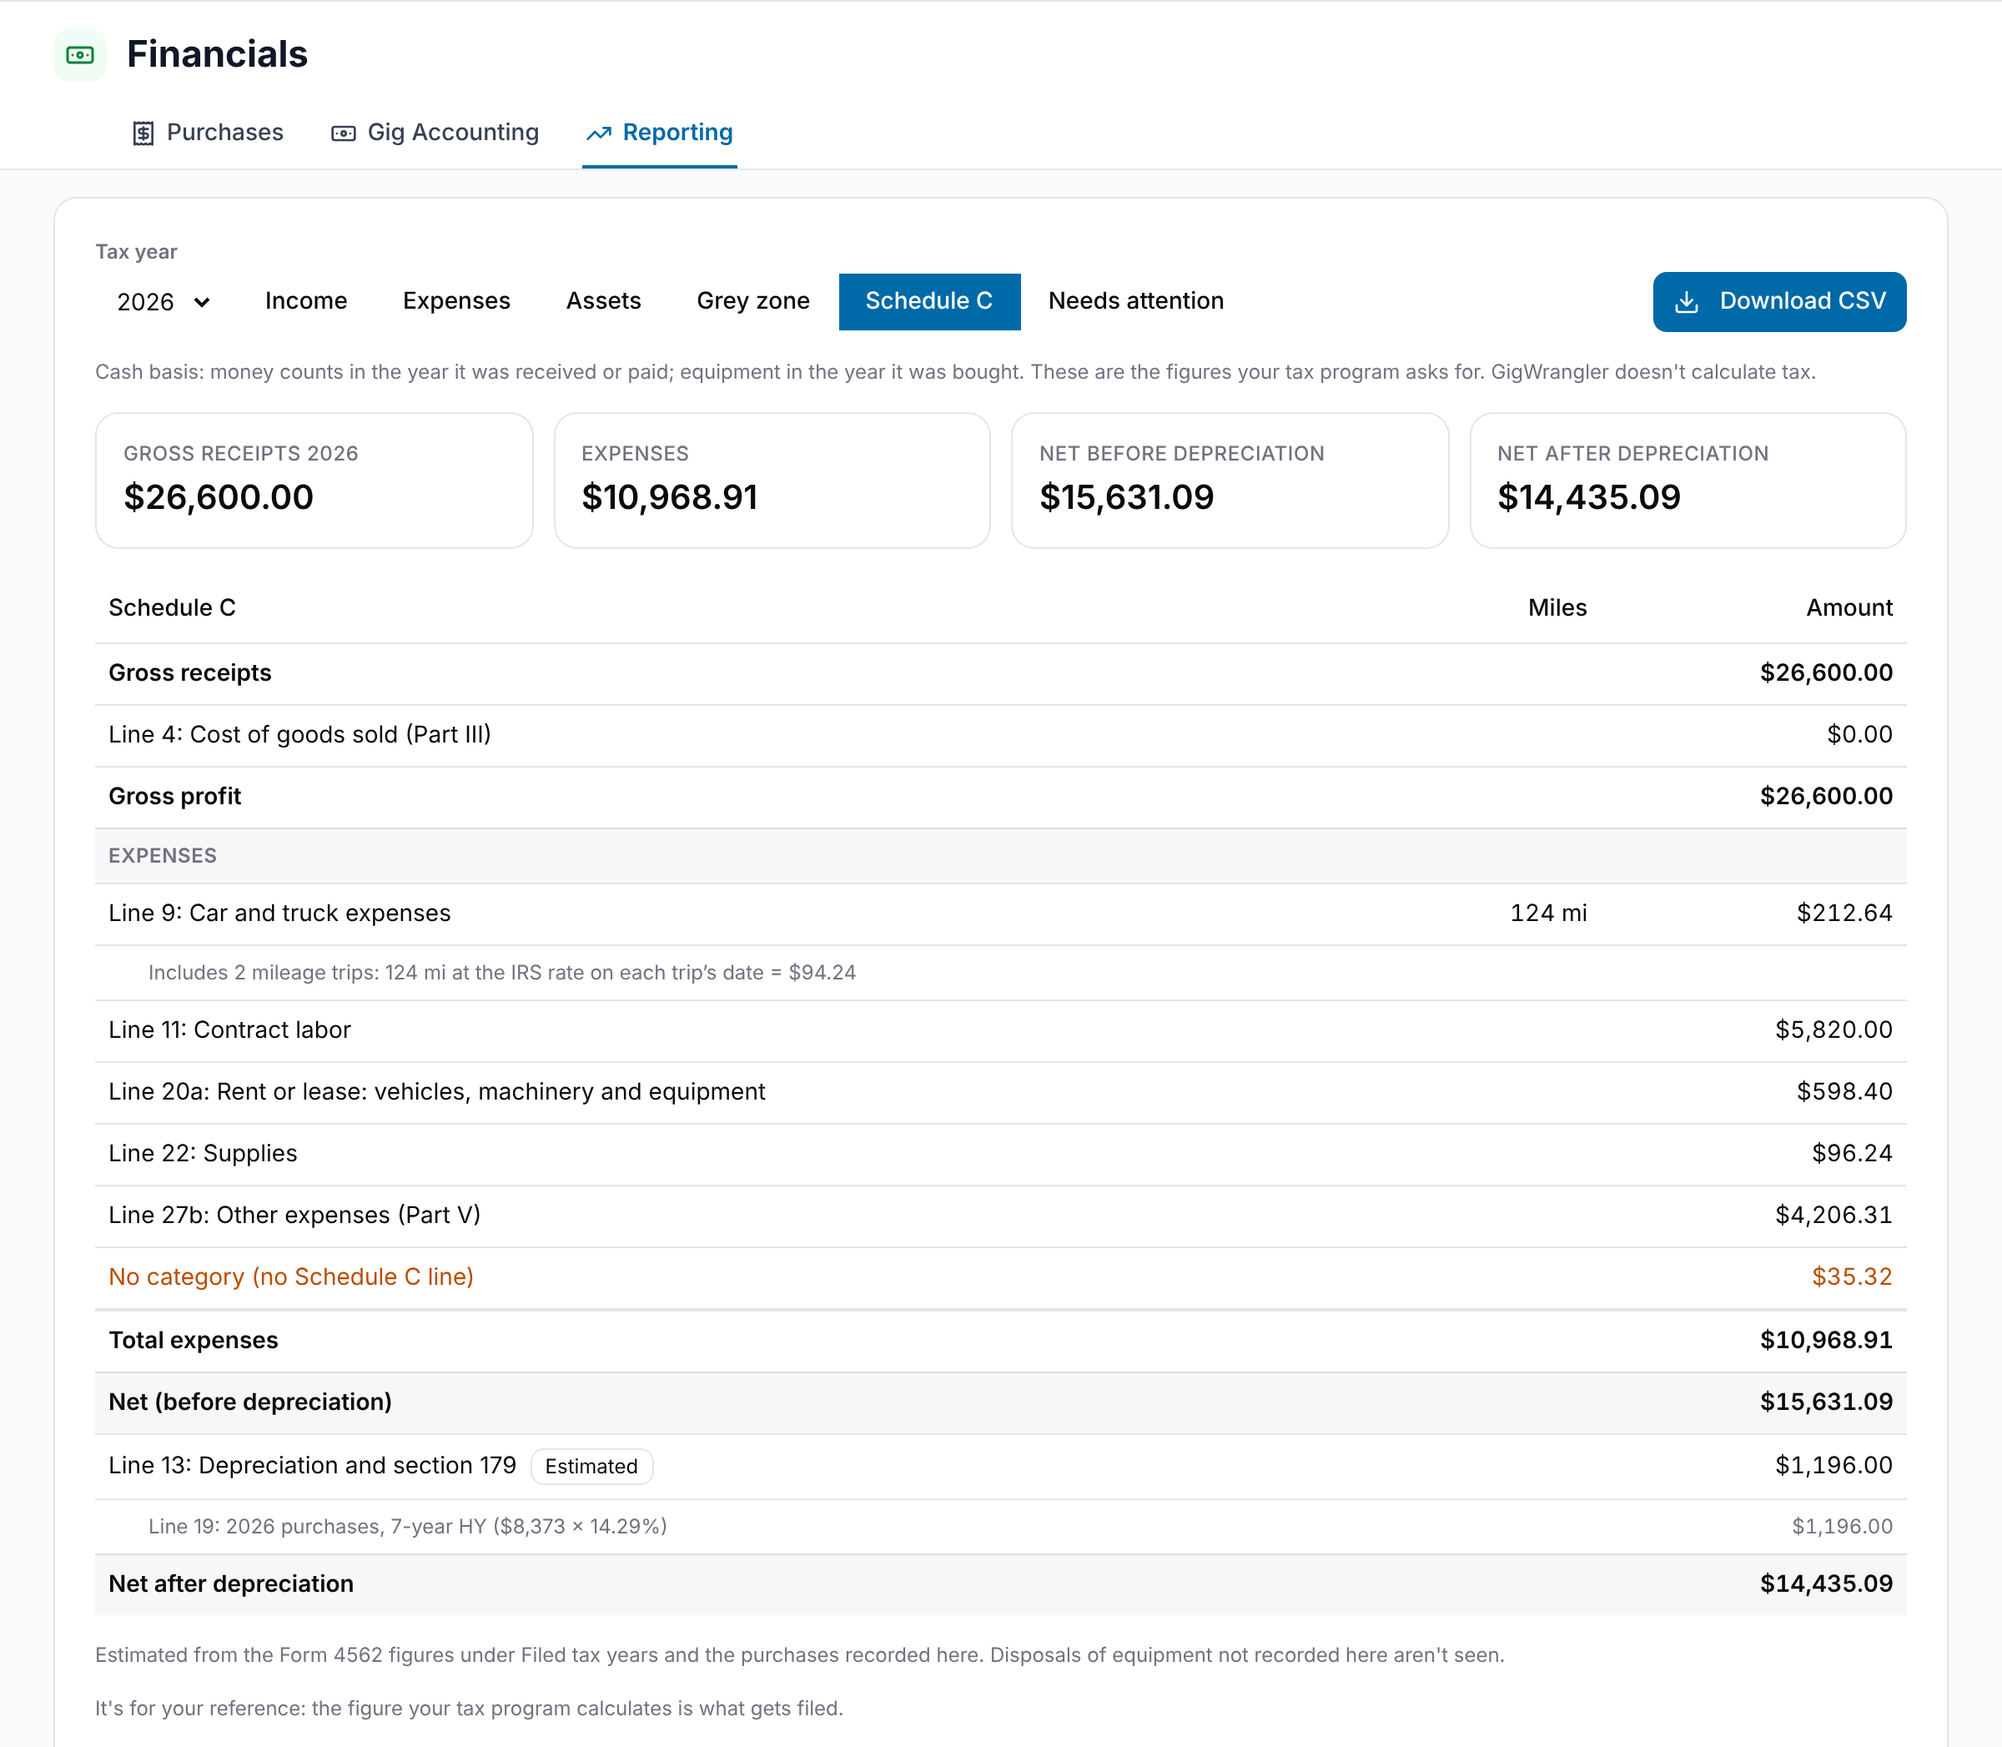
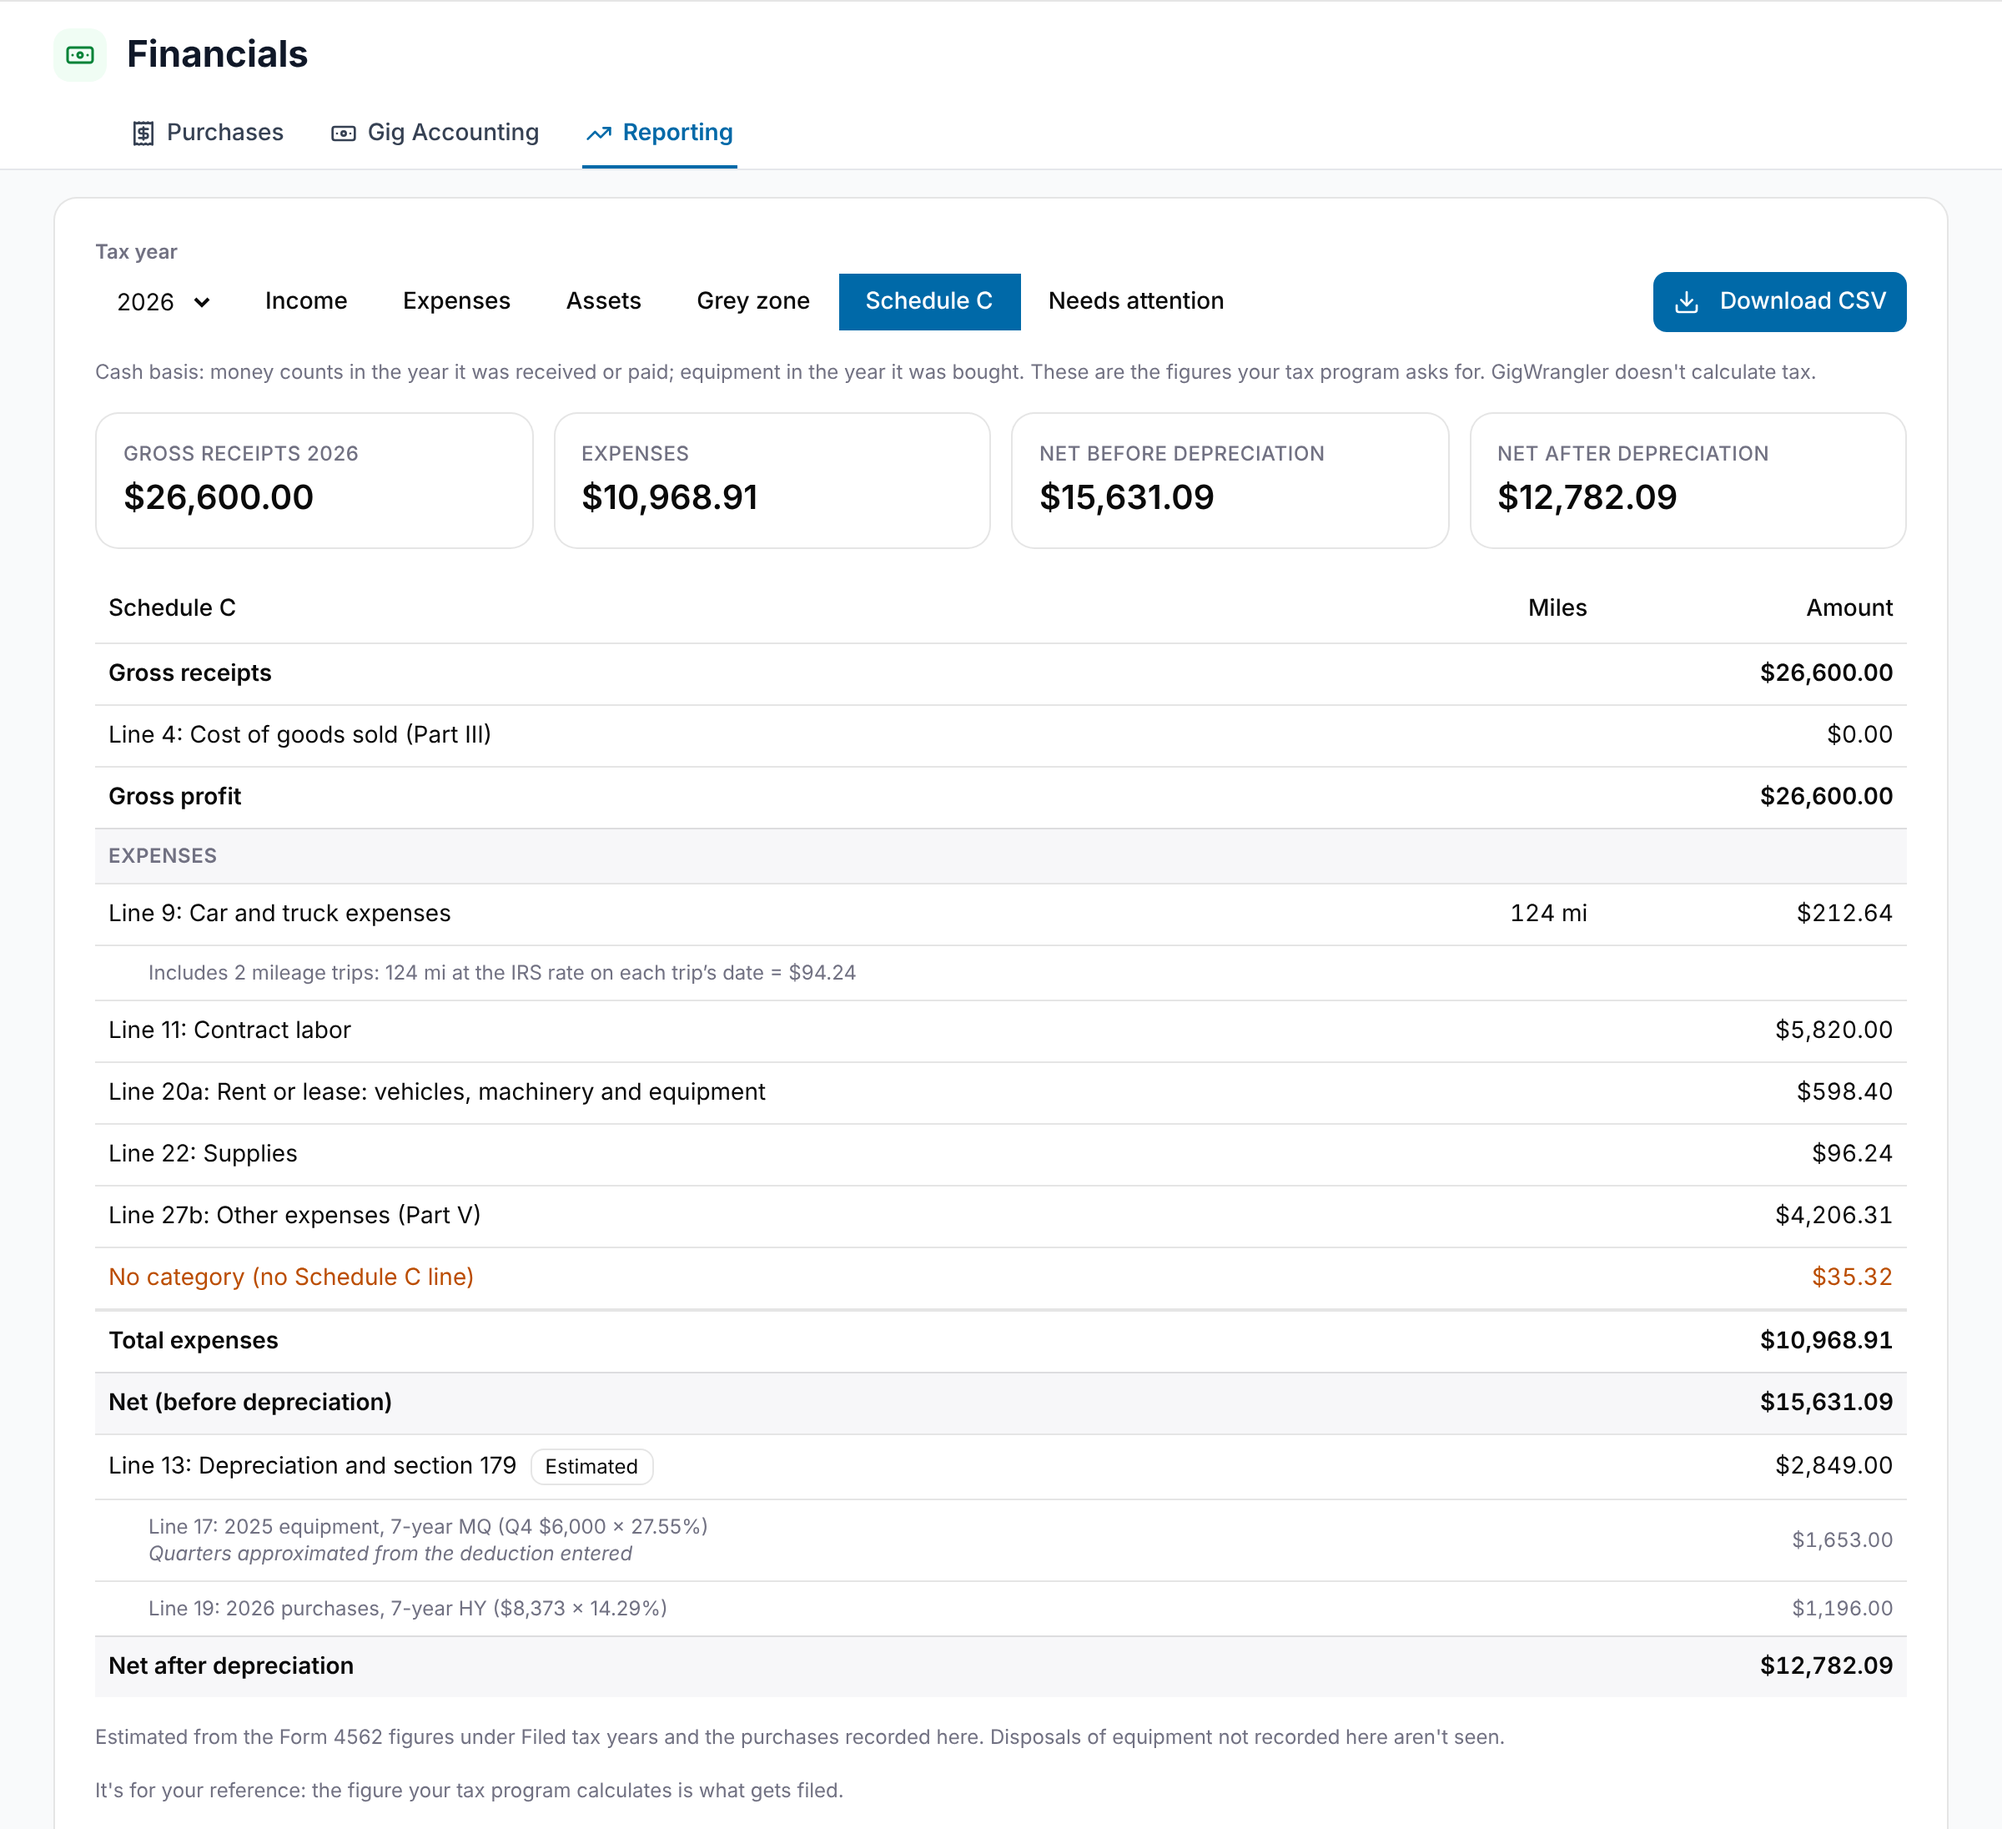
Guide: Form 4562 shot; Schedule C shot with the seeded filed year (#337)
The Form 4562 form for the seed's filed year (invented figures, #344) under
Entering your Form 4562 figures; the Schedule C shot retaken with its line
17 row; examples and alt text to match.

Claude-Session: https://claude.ai/code/session_01LwY4oEmi9cZB9ezMTCQp9a

diff --git a/website/docs/src/content/docs/financials/reporting.md b/website/docs/src/content/docs/financials/reporting.md
@@ -113,14 +113,14 @@ The CSV has the columns **Line**, **Description**, **Amount**, **Miles** and **S
 Line 13 is never typed in on the report. It comes from your Form 4562 figures under [Filed tax years](#filing-a-year), or is estimated from them and your purchases. The tag beside it says which:
 
 - **From Form 4562, line 22:** you've entered that year's Form 4562. Line 13 is your line 22, with the lines you entered under it, such as "Line 17: equipment from earlier years". Notes below the table check line 17 against the years you've entered, and say when line 22 includes lines you didn't enter (15, 16 and 20).
-- **Estimated:** the year has no Form 4562 entered and isn't locked, such as the year you're in. GigWrangler estimates it from the Form 4562 figures you've entered for earlier years, this year's depreciated purchases and any [estimate inputs](#estimate-inputs). Each line underneath shows its working, such as "Line 19: 2026 purchases, 7-year HY ($8,373 × 14.29%)".
+- **Estimated:** the year has no Form 4562 entered and isn't locked, such as the year you're in. GigWrangler estimates it from the Form 4562 figures you've entered for earlier years, this year's depreciated purchases and any [estimate inputs](#estimate-inputs). Each line underneath shows its working, such as "Line 19: 2026 purchases, 7-year HY ($8,373 × 14.29%)". Equipment from a year you've entered carries forward as a line 17 row, such as "Line 17: 2025 equipment, 7-year MQ".
 - **Not entered:** the year is locked but has no Form 4562 figures. Line 13 shows "—", and a note says "Add your Form 4562 figures under Filed tax years below."
 
 The estimate is for planning. As the report says, "It's for your reference: the figure your tax program calculates is what gets filed."
 
 If some expenses are in a category filed on line 13, an amber note ("Also categorized as Depreciation") lists them so they aren't counted twice. They aren't added to line 13 while it has a Form 4562 figure or an estimate.
 
-![The Schedule C report for 2026: gross receipts, expenses, and net before and after depreciation, then a table from Gross receipts, Line 4 Cost of goods sold at $0.00 and Gross profit, through Line 9 with 124 miles at the IRS rate, Lines 11, 20a, 22 and 27b, an amber No category row, Total expenses and Net (before depreciation), then Line 13 Estimated at $1,196.00 from 2026 purchases, 7-year HY, and Net after depreciation, with the estimate and reference notes below](../../../assets/screenshots/financials/reporting-schedule-c.png)
+![The Schedule C report for 2026: gross receipts, expenses, and net before and after depreciation, then a table from Gross receipts, Line 4 Cost of goods sold at $0.00 and Gross profit, through Line 9 with 124 miles at the IRS rate, Lines 11, 20a, 22 and 27b, an amber No category row, Total expenses and Net (before depreciation), then Line 13 Estimated at $2,849.00 from 2025 equipment and 2026 purchases, and Net after depreciation, with the estimate and reference notes below](../../../assets/screenshots/financials/reporting-schedule-c.png)
 
 ## The Needs attention report
 
@@ -153,9 +153,11 @@ Copy each year's depreciation figures from the Form 4562 you filed. Schedule C t
 3. For line 19, select **Add a line 19 row** for each recovery period on your return, and fill in **(c) basis**, **(d) recovery period**, **(e) convention**, **(f) method** and **(g) deduction**. If you bought depreciated equipment that year in GigWrangler, a box shows what it comes to, such as "From GigWrangler: $8,373 of 7-year equipment bought in 2026". Select **Use these values** to fill the row from it.
 4. Select **Save Form 4562 figures**.
 
+![Filed tax years with 2025 locked and Line 22: $4,214, and its Form 4562 open: line 12 Section 179 of 4000, a line 19 row of 6000, 7-year, MQ, 200 DB, 214, line 22 of 4214, the note that lines 12 + 14 + 17 + 19(g) + 21 come to $4,214, matching line 22, and Save Form 4562 figures](../../../assets/screenshots/financials/reporting-form-4562.png)
+
 The form checks your figures as you type:
 
-- **Line 22** against lines 12 + 14 + 17 + 19(g) + 21, such as "Lines 12 + 14 + 17 + 19(g) + 21 come to $3,197, matching line 22." Line 22 is the figure that's used, even when they differ.
+- **Line 22** against lines 12 + 14 + 17 + 19(g) + 21, such as "Lines 12 + 14 + 17 + 19(g) + 21 come to $4,214, matching line 22." Line 22 is the figure that's used, even when they differ.
 - **Line 17** against the earlier years you've entered.
 - **Line 22 is required** once you've filled in anything else: "Line 22 is the total on your form; enter it to save." Every line 19 row needs a basis.
 
